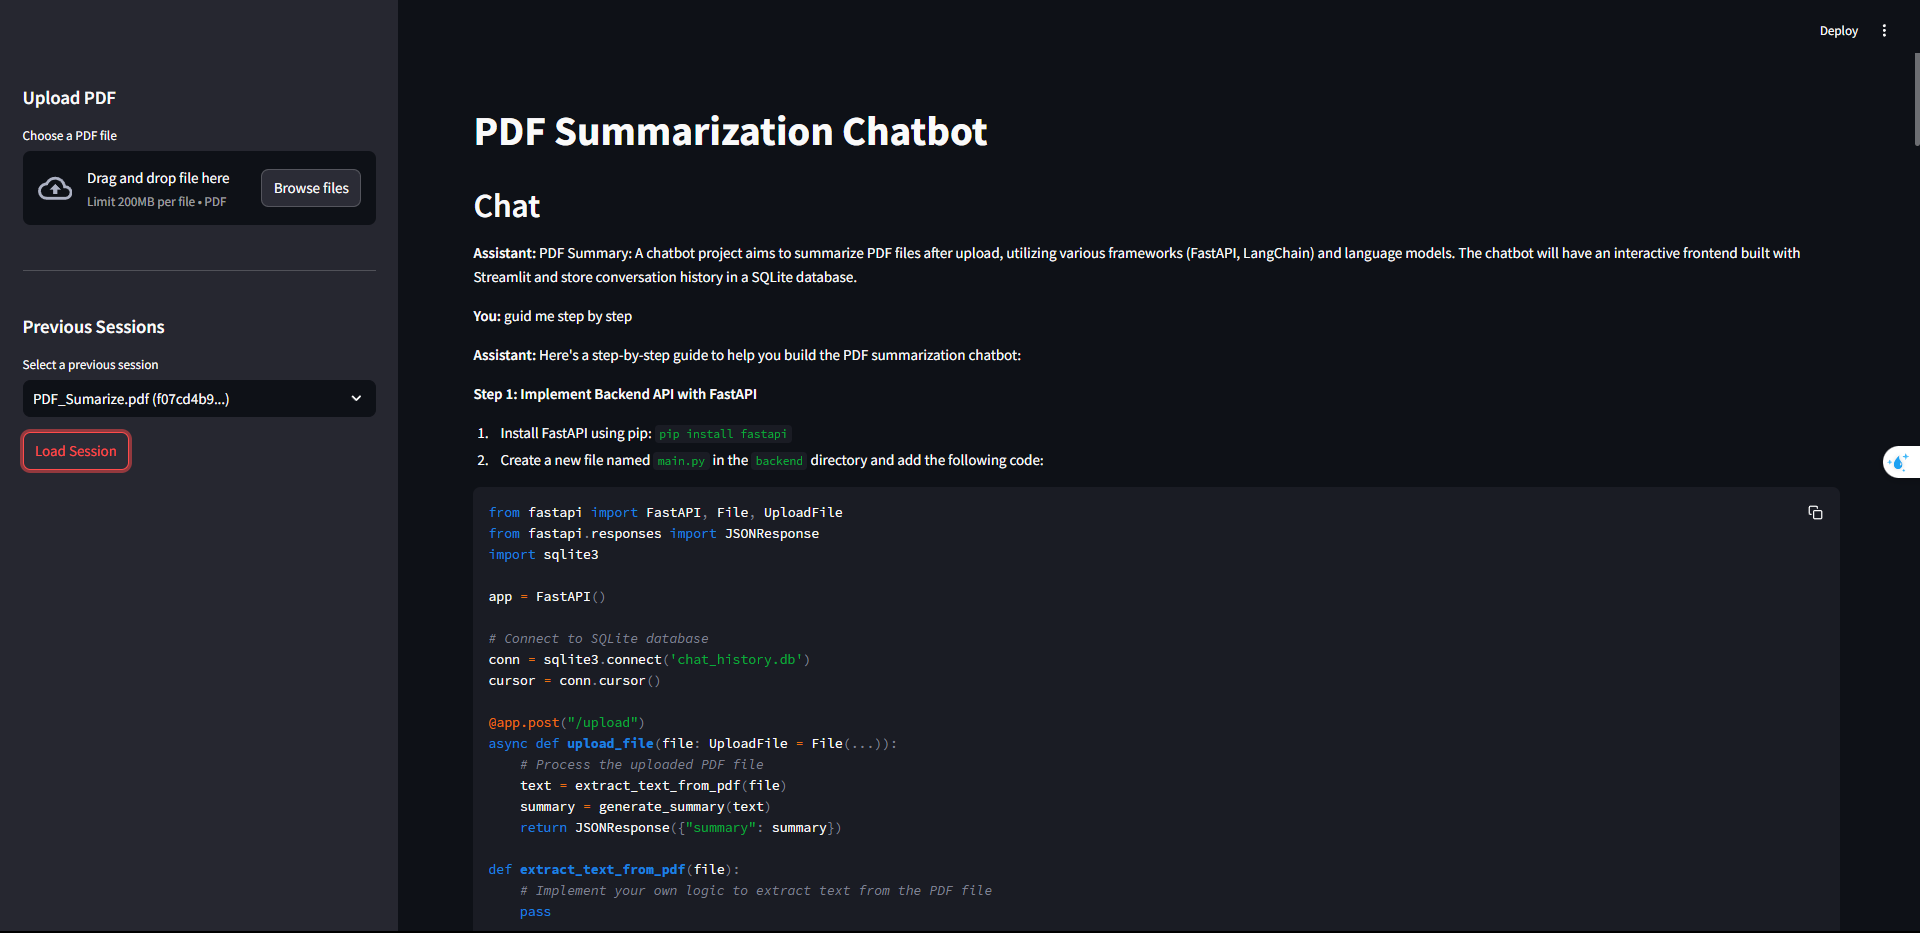
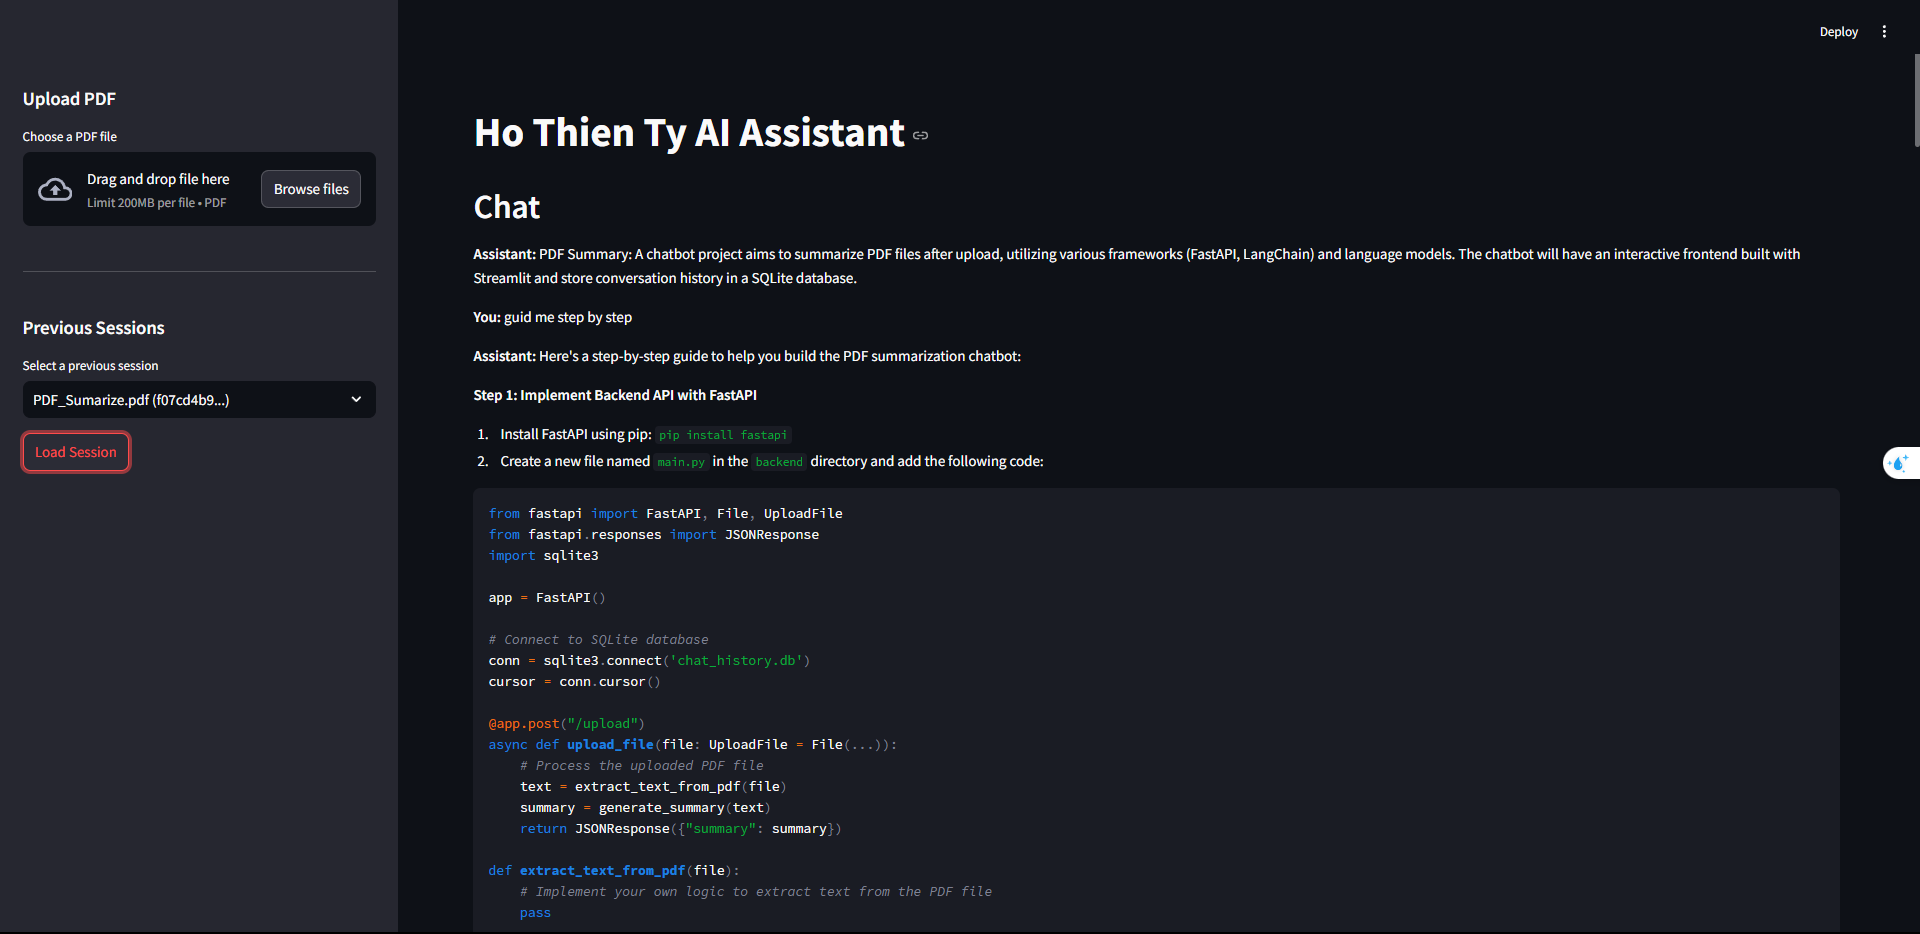
Demo2

diff --git a/Chatbot-PDF-Keys/frontend/app.py b/Chatbot-PDF-Keys/frontend/app.py
@@ -14,7 +14,7 @@ if not API_KEY:
     st.stop()
 
 st.set_page_config(
-    page_title="PDF Summarization Chatbot",
+    page_title="Ho Thien Ty AI Assistant",
     
     layout="wide"
 )
@@ -27,7 +27,7 @@ if "session_id" not in st.session_state:
     st.session_state.session_id = None
 
 # App title
-st.title("PDF Summarization Chatbot")
+st.title("Ho Thien Ty AI Assistant")
 
 # Sidebar for PDF upload and session management
 with st.sidebar:
@@ -98,4 +98,4 @@ else:
 
 # Footer
 st.divider()
-st.caption("PDF Summarization Chatbot using FastAPI, LangChain, and Ollama") 
+st.caption("Ho Thien Ty AI Assistant using FastAPI, LangChain, and Ollama") 
